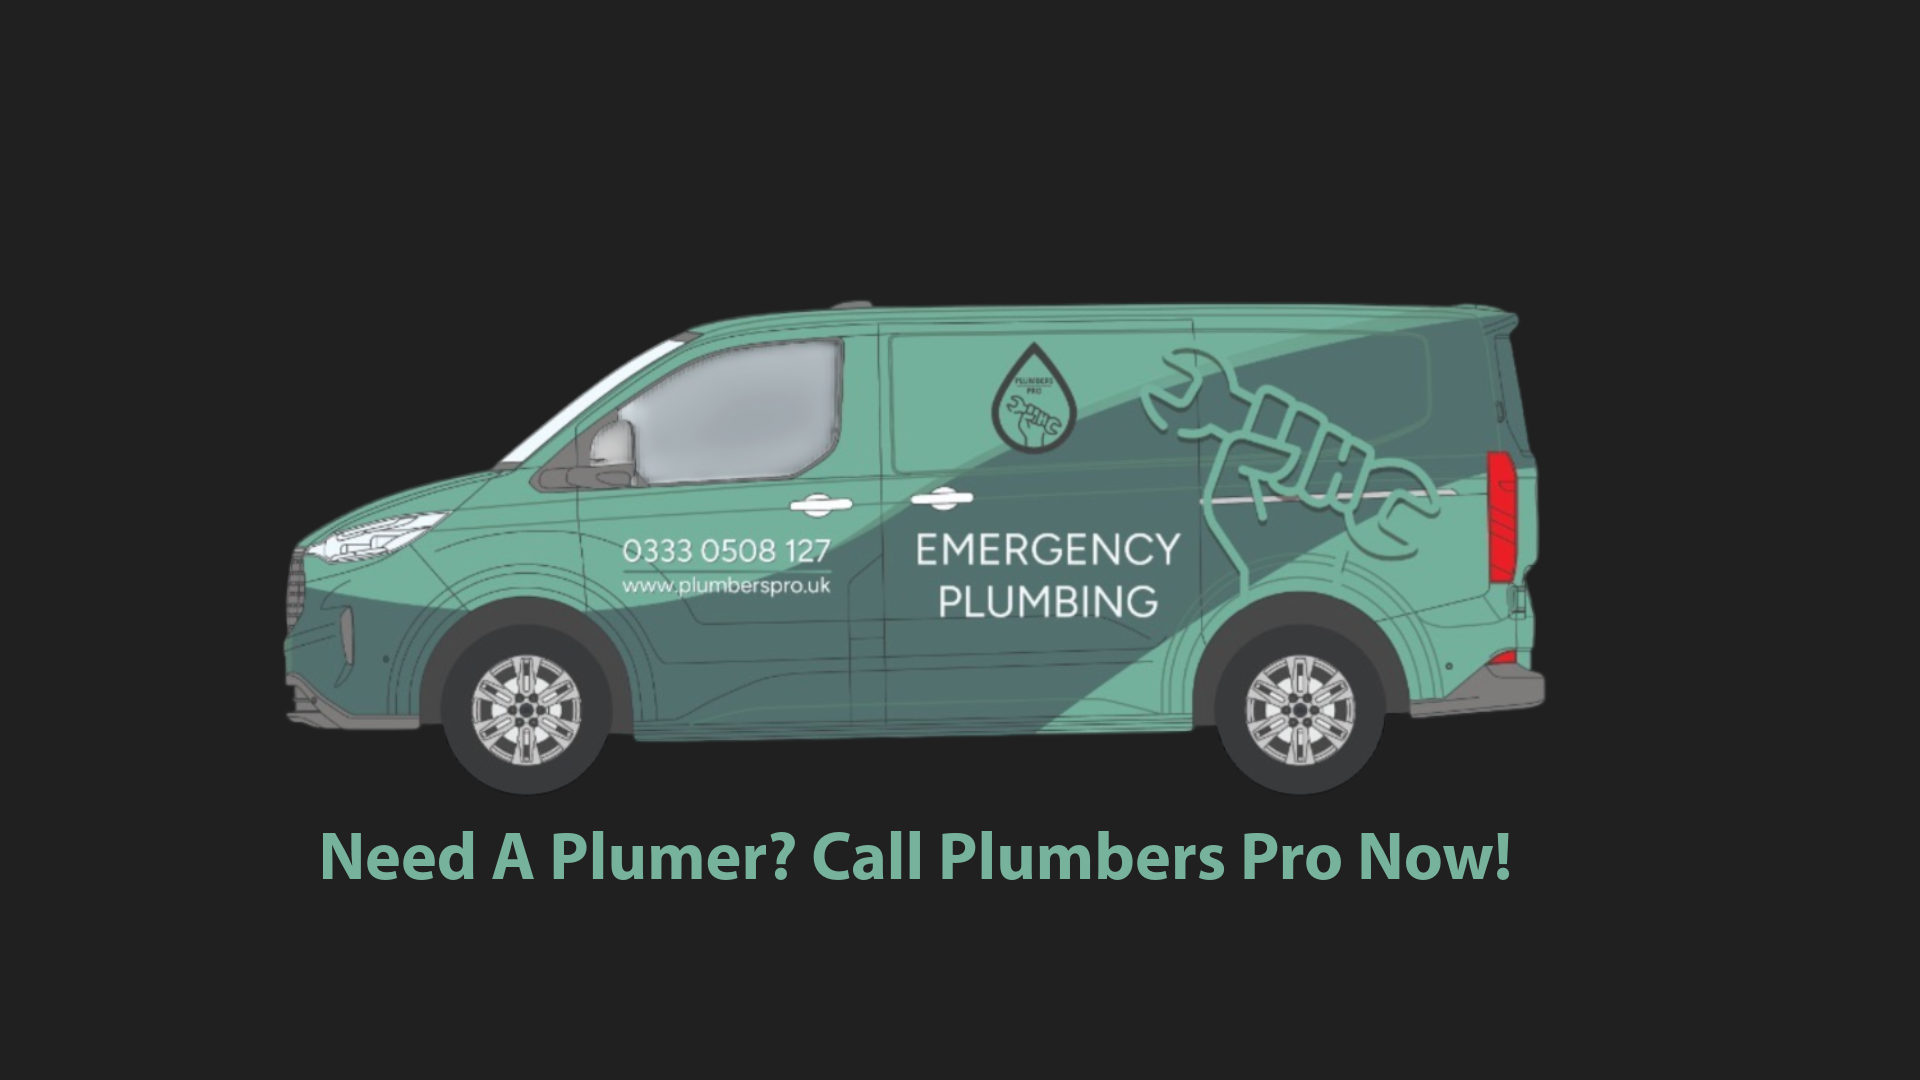
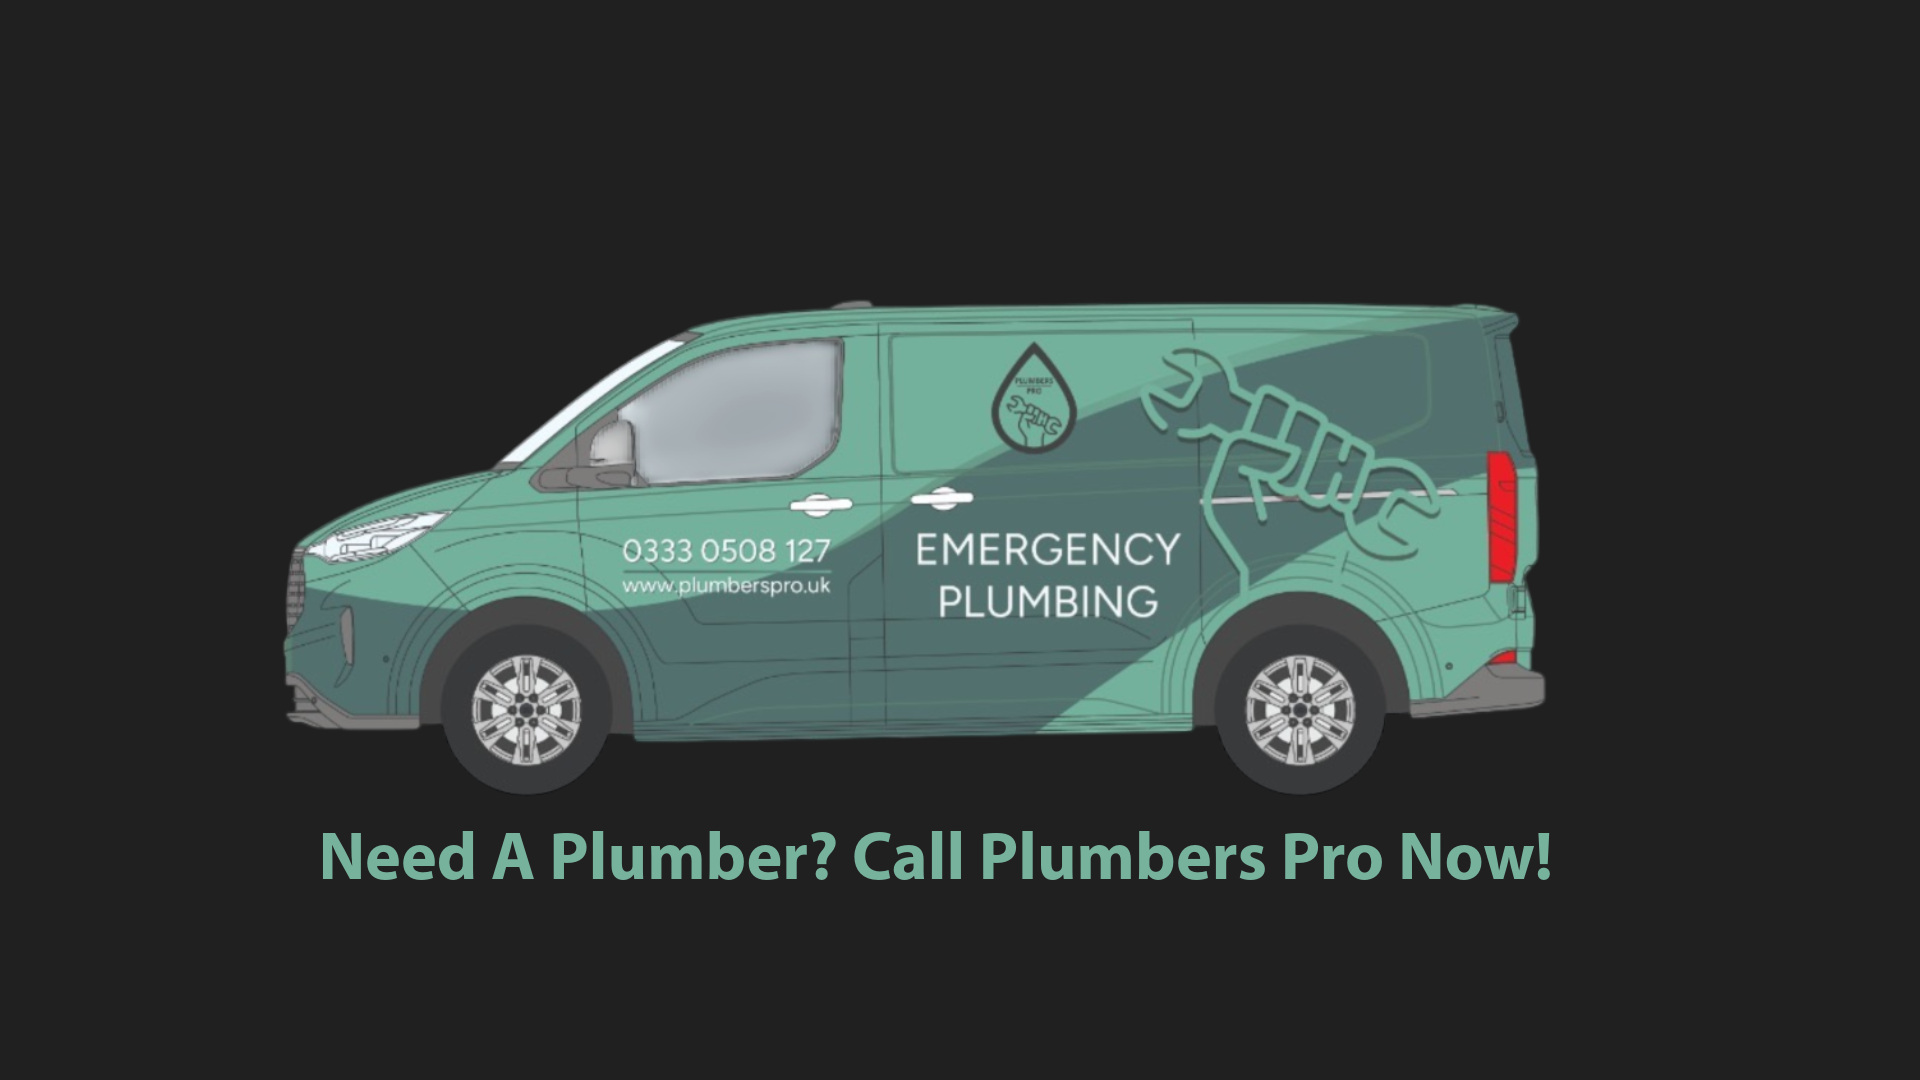
Update v1.0.1 -> changed the image again due to misspell changed faq for call outs added link on here that redirects to rates page

Changed region(s): [[0.3438, 0.7639, 0.8125, 0.825]]

diff --git a/index.html b/index.html
@@ -349,10 +349,11 @@
           </svg>
           <div class="hidden-box">
             <p>
-              We do not charge for call-outs. We charge a minimum of one hour
-              for our time on all jobs. We believe in transparent pricing, so
-              you’ll know exactly what to expect before any work begins. You can
-              view our rates by clicking here.
+              We charge £69 for call-outs during the day and £89 for call-outs
+              at night. All jobs are billed with a minimum of one hour for our
+              time. We believe in transparent pricing, so you’ll know exactly
+              what to expect before any work begins. You can view our full rates
+              by clicking <a href="./pages/rates.html" class="herebtn">Here</a>
             </p>
           </div>
         </div>

diff --git a/assets/css/style.css b/assets/css/style.css
@@ -878,6 +878,13 @@ html {
   gap: 16px;
 }
 
+.herebtn {
+  color: #76b19b;
+}
+
+.herebtn:active {
+  color: #76b19b;
+}
 /* OPEN STATE */
 .open {
   border-top: 4px solid #76b19b;
